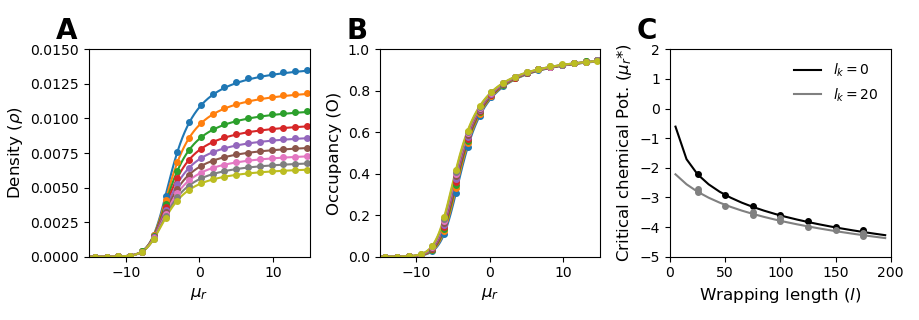
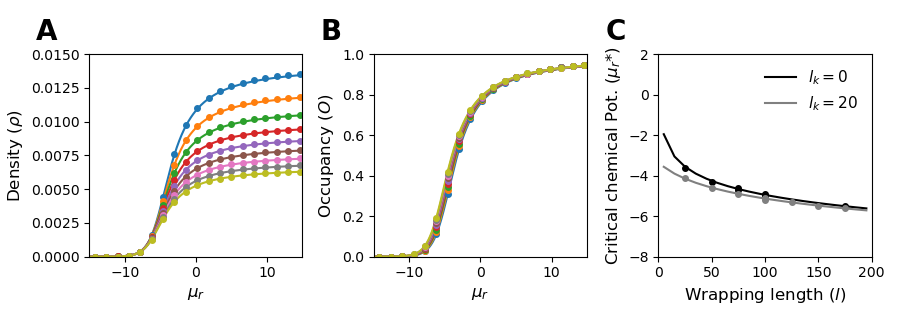
Add files via upload

diff --git a/Figure_2/fixedtonks_fig2.py b/Figure_2/fixedtonks_fig2.py
@@ -5,10 +5,10 @@ import numpy as np
 import math
 import string
 
-
-fig, ax = plt.subplots(figsize=(9.2,3.2))
+fig, ax = plt.subplots(figsize=(9,3.2))
 #fig, ax = plt.subplots(constrained_layout=True)
 
+plt.clf()
 
 lmin=91
 lmax=147
@@ -20,10 +20,10 @@ ur = np.zeros(10000)
 l[0]=70; l[1]=80; l[2]=90; l[3]=100; l[4]=110; l[5]=120; l[6]=130; l[7]=140; l[8]=150; 
 cx='rbgycmpkk'
 print(cx[0])
-ax1=plt.subplot(1, 3, 1)
-ax1.text(-0.15, 1.05, string.ascii_uppercase[0], transform=ax1.transAxes, size=20, weight='bold')
+ax=plt.subplot(1, 3, 1)
+ax.text(-0.25, 1.07, string.ascii_uppercase[0], transform=ax.transAxes, size=20, weight='bold')
 plt.ylabel(r'Density ($\rho$)',fontsize=12)
-plt.xlabel('$\mu_r$',fontsize=12)
+plt.xlabel(r'$\mu_r$',fontsize=12)
 plt.xlim(-15, 15)
 plt.ylim(0,0.015)
 for j in range(9):
@@ -87,9 +87,9 @@ p = np.zeros(10000)
 o = np.zeros(10000)
 ur = np.zeros(10000)    
 ax1=plt.subplot(1, 3, 2)
-ax1.text(-0.15, 1.05, string.ascii_uppercase[1], transform=ax1.transAxes, size=20, weight='bold')
-plt.ylabel('Occupancy (O)',fontsize=12)
-plt.xlabel('$\mu_r$',fontsize=12)
+ax1.text(-0.25, 1.07, string.ascii_uppercase[1], transform=ax1.transAxes, size=20, weight='bold')
+plt.ylabel('Occupancy ($O$)',fontsize=12)
+plt.xlabel(r'$\mu_r$',fontsize=12)
 plt.xlim(-15, 15)
 plt.ylim(0,1)
 for j in range(9):
@@ -155,31 +155,31 @@ for i in range(7):
     for j in range(300):
         data1[j]=mu[j+k]
         data5[j]=pO1[j+k]
-        if pO1[j+k]>((1/(2*ls[i]))-0.0001) and pO1[j+k]<((1/(2*ls[i]))+0.0005) and ls[i]==25:
+        if pO1[j+k]>((0.31/ls[i])-0.0001) and pO1[j+k]<((0.31/ls[i])+0.0005) and ls[i]==25:
            print('mx,imx..............',i,mu[j+k],ls[i])
            muxx.append(mu[j+k])
            lsxx.append(ls[i])
-        if pO1[j+k]>((1/(2*ls[i]))-0.0001) and pO1[j+k]<((1/(2*ls[i]))+0.0001) and ls[i]==50:
+        if pO1[j+k]>((0.31/ls[i])-0.0001) and pO1[j+k]<((0.31/ls[i])+0.0001) and ls[i]==50:
            print('mx,imx..............',i,mu[j+k],ls[i])
            muxx.append(mu[j+k])
            lsxx.append(ls[i])
-        if pO1[j+k]>((1/(2*ls[i]))-0.0001) and pO1[j+k]<((1/(2*ls[i]))+0.0002) and ls[i]==75:
+        if pO1[j+k]>((0.31/ls[i])-0.0001) and pO1[j+k]<((0.31/ls[i])+0.0002) and ls[i]==75:
            print('mx,imx..............',i,mu[j+k],ls[i])
            muxx.append(mu[j+k])
            lsxx.append(ls[i])
-        if pO1[j+k]>((1/(2*ls[i]))-0.0001) and pO1[j+k]<((1/(2*ls[i]))+0.0001) and ls[i]==100:
+        if pO1[j+k]>((0.31/ls[i])-0.0001) and pO1[j+k]<((0.31/ls[i])+0.0001) and ls[i]==100:
            print('mx,imx..............',i,mu[j+k],ls[i])
            muxx.append(mu[j+k])
            lsxx.append(ls[i])
-        if pO1[j+k]>((1/(2*ls[i]))-0.00004) and pO1[j+k]<((1/(2*ls[i]))+0.00004) and ls[i]==125:
+        if pO1[j+k]>((0.31/ls[i])-0.00004) and pO1[j+k]<((0.31/ls[i])+0.00004) and ls[i]==125:
            print('mx,imx..............',i,mu[j+k],ls[i])
            muxx.append(mu[j+k])
            lsxx.append(ls[i])
-        if pO1[j+k]>((1/(2*ls[i]))-0.00004) and pO1[j+k]<((1/(2*ls[i]))+0.00004) and ls[i]==150:
+        if pO1[j+k]>((0.31/ls[i])-0.00004) and pO1[j+k]<((0.31/ls[i])+0.00004) and ls[i]==150:
            print('mx,imx..............',i,mu[j+k],ls[i])
            muxx.append(mu[j+k])
            lsxx.append(ls[i])
-        if pO1[j+k]>((1/(2*ls[i]))-0.00004) and pO1[j+k]<((1/(2*ls[i]))+0.00003) and ls[i]==175:
+        if pO1[j+k]>((0.31/ls[i])-0.00004) and pO1[j+k]<((0.31/ls[i])+0.00003) and ls[i]==175:
            print('mx,imx..............',i,mu[j+k],ls[i])
            muxx.append(mu[j+k])
            lsxx.append(ls[i])
@@ -222,31 +222,31 @@ for i in range(7):
     for j in range(300):
         data1[j]=mu[j+k]
         data5[j]=pO1[j+k]
-        if pO1[j+k]>((1/(2*(ls[i]+20)))-0.0001) and pO1[j+k]<((1/(2*(ls[i]+20)))+0.0005) and ls[i]==25:
+        if pO1[j+k]>((0.31/(ls[i]+20))-0.0001) and pO1[j+k]<((0.31/(ls[i]+20))+0.0005) and ls[i]==25:
            print('mx,imx..............',i,mu[j+k],ls[i])
            muxx1.append(mu[j+k])
            lsxx1.append(ls[i])
-        if pO1[j+k]>((1/(2*(ls[i]+20)))-0.0001) and pO1[j+k]<((1/(2*(ls[i]+20)))+0.0001) and ls[i]==50:
+        if pO1[j+k]>((0.31/(ls[i]+20))-0.0001) and pO1[j+k]<((0.31/(ls[i]+20))+0.0001) and ls[i]==50:
            print('mx,imx..............',i,mu[j+k],ls[i])
            muxx1.append(mu[j+k])
            lsxx1.append(ls[i])
-        if pO1[j+k]>((1/(2*(ls[i]+20)))-0.0001) and pO1[j+k]<((1/(2*(ls[i]+20)))+0.0001) and ls[i]==75:
+        if pO1[j+k]>((0.31/(ls[i]+20))-0.0001) and pO1[j+k]<((0.31/(ls[i]+20))+0.0001) and ls[i]==75:
            print('mx,imx..............',i,mu[j+k],ls[i])
            muxx1.append(mu[j+k])
            lsxx1.append(ls[i])
-        if pO1[j+k]>((1/(2*(ls[i]+20)))-0.0001) and pO1[j+k]<((1/(2*(ls[i]+20)))+0.0001) and ls[i]==100:
+        if pO1[j+k]>((0.31/(ls[i]+20))-0.0001) and pO1[j+k]<((0.31/(ls[i]+20))+0.0001) and ls[i]==100:
            print('mx,imx..............',i,mu[j+k],ls[i])
            muxx1.append(mu[j+k])
            lsxx1.append(ls[i])
-        if pO1[j+k]>((1/(2*(ls[i]+20)))-0.00004) and pO1[j+k]<((1/(2*(ls[i]+20)))+0.00004) and ls[i]==125:
+        if pO1[j+k]>((0.31/(ls[i]+20))-0.00004) and pO1[j+k]<((0.31/(ls[i]+20))+0.00004) and ls[i]==125:
            print('mx,imx..............',i,mu[j+k],ls[i])
            muxx1.append(mu[j+k])
            lsxx1.append(ls[i])
-        if pO1[j+k]>((1/(2*(ls[i]+20)))-0.00004) and pO1[j+k]<((1/(2*(ls[i]+20)))+0.00004) and ls[i]==150:
+        if pO1[j+k]>((0.31/(ls[i]+20))-0.00004) and pO1[j+k]<((0.31/(ls[i]+20))+0.00004) and ls[i]==150:
            print('mx,imx..............',i,mu[j+k],ls[i])
            muxx1.append(mu[j+k])
            lsxx1.append(ls[i])
-        if pO1[j+k]>((1/(2*(ls[i]+20)))-0.00004) and pO1[j+k]<((1/(2*(ls[i]+20)))+0.00003) and ls[i]==175:
+        if pO1[j+k]>((0.31/(ls[i]+20))-0.00004) and pO1[j+k]<((0.31/(ls[i]+20))+0.00003) and ls[i]==175:
            print('mx,imx..............',i,mu[j+k],ls[i])
            muxx1.append(mu[j+k])
            lsxx1.append(ls[i])
@@ -257,17 +257,17 @@ for i in range(7):
 
       
 ax1=plt.subplot(1, 3, 3)
-ax1.text(-0.15, 1.05, string.ascii_uppercase[2], transform=ax1.transAxes, size=20, weight='bold')
+ax1.text(-0.25, 1.07, string.ascii_uppercase[2], transform=ax1.transAxes, size=20, weight='bold')
 plt.ylabel(r'Critical chemical Pot. ($\mu_r$*)',fontsize=12)
 plt.xlabel('Wrapping length ($l$)',fontsize=12)
 plt.xlim(0, 200)
-plt.ylim(-5, 2)
+plt.ylim(-8, 2)
 l = np.zeros(20)
 mu = np.zeros(20)
 lk=0
 for i in range(20):
     l[i]=i*10+5
-    mu[i]=1+math.log(1/(l[i]+lk))
+    mu[i]=-0.34+math.log(1/(l[i]+lk))
     #print(p[i],p[i]*l[j])
 plt.plot(l, mu,c='k',label='$l_{k}=0$') #linestyle='dotted'
 plt.plot(lsxx, muxx, linestyle='', c = 'black',marker='o',ms=4) #linestyle='dotted'
@@ -277,10 +277,10 @@ mu = np.zeros(20)
 lk=20
 for i in range(20):
     l[i]=i*10+5
-    mu[i]=1+math.log(1/(l[i]+lk))
+    mu[i]=-0.34+math.log(1/(l[i]+lk))
     #print(p[i],p[i]*l[j])
 plt.plot(l, mu,c='grey',label='$l_{k}=20$') #linestyle='dotted'
-plt.legend(loc="upper right",fontsize=10,frameon=False)
+plt.legend(loc="upper right",fontsize=11,frameon=False)
 
 #plt.vlines(-2.65, 0, 1, linestyles ="dotted", colors ="k")
 
